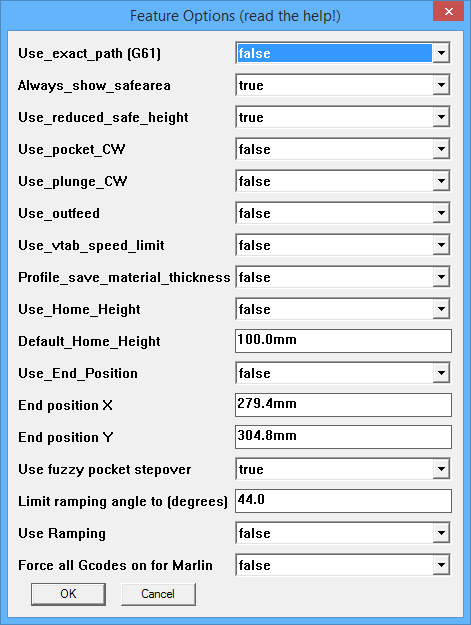
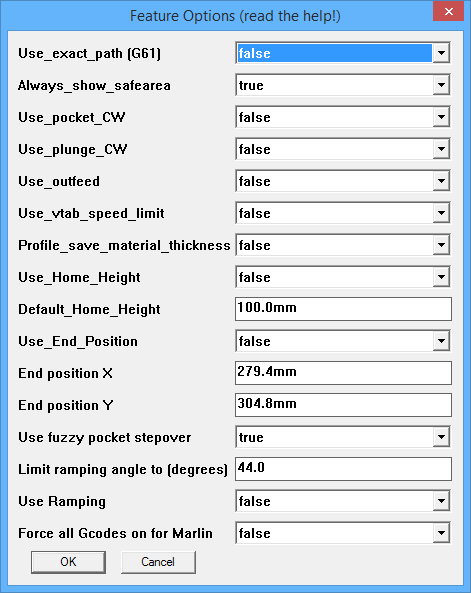
help updates, shifted use_reduced_safe_Height to hole options
use_reduced_safe_height belongs under hole features.
help updated

Changed region(s): [[0.0297, 0.0, 0.9809, 0.9713], [0.2675, 0.941, 0.4161, 0.9713]]

diff --git a/Plugins/Phlatboyz/html/help.html b/Plugins/Phlatboyz/html/help.html
@@ -113,7 +113,7 @@
 <br>
 <a href="http://www.phlatboyz.com/">PHLATBOYZ</a>
 
-<div class="intro-name">Phlatboyz SketchUcam(PhlatScripT)<div><b>SketchUcam Version 1.4</b><br>November 2015</div></div>
+<div class="intro-name">Phlatboyz SketchUcam(PhlatScripT)<div><b>SketchUcam Version 1.4a</b><br>February 2016</div></div>
 
 <br> <a href="http://www.phlatforum.com/xenforo/index.php?forums/sketchucam-download/">Check for Latest Version of SketchUcam</a>
 <hr width="100%">
@@ -176,11 +176,18 @@
             </ul>
             <b>HOWTO:</b><br>
             <ul style="padding-left: 2px;">
+               <li><a class="index" href="howto_options.html#compat">Set <b>Use_compatible_dialogs</b> when Parameters dialog is blank</a>
                <li><a class="index" href="howto_options.html">Change Default Options</a>
-               <li><a class="index" href="howto_options.html#compat">Set <b>Use_compatible_dialogs</b> when Parameters dialog blank</a>            
-               <li><a class="index" href="howto-changegplot.html">Change G-code plotter*</a>
-               <li><a class="index" href="howto_phlatbones.html">Use the <b>PhlatBones</b> tool</a>
-               <li><a class="index" href="howto_profileexchange.html">Exchange Profiles with friends</a>
+               <ul>
+                  <li><a href="howto_options.html#a1">Tool Options</a> 
+                  <li><a href="howto_options.html#a2">Misc Options</a> 
+                  <li><a href="howto_options.html#a3">Machine Options</a> 
+                  <li><a href="howto_options.html#a4">Feature Options</a> 
+                  <li><a href="howto_options.html#a5">Hole Feature Options</a>   
+                  <li><a href="howto_options.html#a6">File Options</a> 
+               </ul>
+               
+                           
                <li><a class="index" href="sketchucamtoolbar.html">Toolbar Icons</a>
                <ul>
                   <li><a href="sketchucamtoolbar.html#toolparameters"><img alt="" src="../images/parameterstool_small.png" title="Enter Phlatboyz Parameters" width="16"> Parameters</a>
@@ -201,7 +208,10 @@
                   <li><a href="sketchucamtoolbar.html#toolgoto"><img alt="" src="../images/Phlatboyz_homepage_small.png" title="Go To Phlatboyz Homepage" width="16"> Goto Phlatforum</a>
                   <li><a href="sketchucamtoolbar.html#toolhelp"><img alt="" src="../images/helptool_small.png" title="Open Phlatboyz Help" width="16"> Help</a>
                </ul>
-               <li><a class="index" href="quicktools.html">QuickTools Toolbar*</a>
+               <li><a class="index" href="howto-changegplot.html">Change G-code plotter</a>
+               <li><a class="index" href="howto_phlatbones.html">Use the <b>PhlatBones</b> tool</a>
+               <li><a class="index" href="howto_profileexchange.html">Exchange Profiles with friends</a>
+               <li><a class="index" href="quicktools.html">QuickTools Toolbar</a>
                <li><a class="index" href="edgemenu.html">Edge Context Menu</a>
                <li><a class="index" href="toolsmenu.html">Tools|PhlatBoyz Menu</a>
                <li><a class="index" href="howto_ramping.html"><b>How to use Ramping</b></a>
@@ -214,6 +224,34 @@
 <tbody>
 <tr>
    <td width="90%">
+   <div class="intro">
+      
+      <h4>New in V1.4a (Feb 2016)</h4>
+      <dl>   
+      <dt>Bug fixes
+         <dd>
+         <dl>
+         <dt>Additions to help.
+         </dl>
+         </dd>
+      <dt>New Features
+         <dd>
+         <dl>
+         <dt>Centerline cuts: prevent retract when possible
+            <dd>If doing multipass cuts, centerline cuts that form loops do not need to retract between passes since start and end  point are equal.
+            <dd>This applies to all cuts based on centerline cuts, centerline, fold, and pockets.
+         <dt>Fast approach:
+            <dd>Approach the surface using G00 to within 0.5mm, then switch to G01 to begin cutting.<br>
+            This reduces cut time greatly when the safe height is relatively high, and to a lesser extent for normal safe heights.
+            <dd>(This was already implemented for ramping cuts, and has now been added to non-ramping cuts).
+         <dt>Very small arcs converted to lines
+            <dd>Arc segments with radius <= 0.010" can cause problems with some simulators and controllers.   Convert them to line segments.
+            Note that drawing such a small arc is almost impossible in Sketchup, but they can result from scaling a drawing, or from importing
+            a scanned DXF file.
+         </dl>
+         </dd>
+      </dl>
+   </div>
    <div class="intro">
       
       <h4>New in V1.4 (Nov 2015)</h4>

diff --git a/Plugins/Phlatboyz/html/howto_options.html b/Plugins/Phlatboyz/html/howto_options.html
@@ -139,6 +139,7 @@ However, this proved to be complicated by changes in Windows 7 and 8, differing 
 Thus the new Options Menu is an evolution of this default options mechanism and allow a user to set default settings that affect
 their computer or CNC machine  environment using simple menus as shown at right.
 </p>
+<hr>
 <h2>The Options menu</h2>
 <p>
 The Options menu is found under Tools|PhlatBoyz|Options and comprises 5 items with subitems as follows:
@@ -158,7 +159,7 @@ The Options menu is found under Tools|PhlatBoyz|Options and comprises 5 items wi
    <dd>Default file naming options
 </dl>
 <br clear="all">
-
+<hr>
 <h2><a id="a1">Tool Options</a></h2>
 <p>   
 <img src="images/options-tool.png" style="float: right;">
@@ -197,7 +198,7 @@ These settings can easily be overridden by using the Tool Profiles save and load
       <dd>Set this to true to have pocket zigzags default to along Y axis, false for along X axis.
          This setting can be changed on the fly with the END key.
 </dl>
-
+<hr>
 <h2><a id="a2">Misc Options</a></h2>
 <p>
 <img src="images/options-misc.png" style="float: right;">
@@ -221,7 +222,7 @@ These settings can easily be overridden by using the Tool Profiles save and load
       Linux users running Sketchup under WINE can work around this issue by installing 'winetricks' and then issuing the command 'winetricks ie8'.  
       This will install IE8 and allow the Parameters dialog to work correctly with this setting set to false.
 </dl>   
-
+<hr>
 <h2><a id="a3">Machine Options</a></h2>
 <p>
 <img src="images/options-machine.png" style="float: right;">
@@ -286,7 +287,7 @@ cuts = 3.3</pre>
    <dt>Output Comments
       <dd>When this option is set to FALSE, no comments will be output to the G-code file at all.
 </dl>
-
+<hr>
 <h2><a id="a4">Feature Options</a></h2>
 <img src="images/options-feature.png" style="float: right;">
 <dl>
@@ -303,9 +304,6 @@ cuts = 3.3</pre>
    <dt>Always_show_safearea
       <dd>Set this to true, if you want the safe area to always show, when parameters are saved.<br>
          Otherwise the safe area will only show, if it's size has been changed.
-            
-   <dt>Use_reduced_safe_height
-      <dd>Set this to true to use 1/3 of the usual safe travel height during plunge boring moves.
             
    <dt>Use_pocket_CW
       <dd>Set this true to generate pocket outlines that cut in CW instead of usual CCW direction<br>
@@ -368,13 +366,15 @@ cuts = 3.3</pre>
       <dd>FALSE (default) = use optimized G-code output that does not repeat G commands if they are not needed
       <dd>TRUE = force output of G code on all lines, useful for Marlin firmware that requires this.
    </dl>
-
+<hr>
 <h2><a id="a5">Hole Feature Options</a></h2>
 <img src="images/options-holefeatures.png" style="float: right;">
    Some options that plunge hole feature Gcode generation.<br>
    Note that the Ramping and stepover% settings also affect how hole boring is generated.  <a href="sketchucamtoolbar.html#toolplunge">Read more here</a>
 <dl>
-<dt>Use fuzzy hole stepover 
+   <dt>Use_reduced_safe_height
+      <dd>Set this to true to use the minimum of 0.5mm or 1/3 of the usual safe travel height during plunge boring moves.
+   <dt>Use fuzzy hole stepover 
       <dd>FALSE = spiral hole boring will use the exact stepover percentage given in the parameters dialog.
          This may create a very small depth of cut for the last cut.
       <dd>TRUE = the stepover will be adjusted to give a whole number of steps of equal size.<br>
@@ -398,7 +398,7 @@ cuts = 3.3</pre>
       bore a large hole.   For harder materials with multipass this method is recommended.
 </dl>   
    
-   
+   <hr>
 <h2><a id="a6">File Options</a></h2>
 <img src="images/options-file.png" style="float: right;">
    Some options that affect saving G-code files.

diff --git a/notes.html b/notes.html
@@ -354,11 +354,26 @@ List of things to fix/add for next release, in no particular order
    <dt>fold/centerline/pocket tool depth
       <dd>can now be set to floating point number, eg 10.6 or 34.15 etc
    <dt>inputbox error checking
-      <dd> all input boxes use exception rescueing to detect errors in number formats and 'retry'
+      <dd> all input boxes use exception rescuing to detect errors in number formats and 'retry'
    <dt>removed SHIFT for inverting cut edge in outside/inside cut.
    <dt>rapid approach to surface for plunge moves, similar to ramping
 </dl>  
+<h2>1.4a</h2>
+<dl>
+   <Dt>help updated
+   <dt>move use_reduced_safe_height to the hole feature options menu where it belongs
+   <dt>Centerline cuts: prevent retract when possible
+      <dd>  If doing multipass cuts, centerline cuts that form loops do not need to retract between passes since start and end point are equal. 
+      <dd>  This applies to all cuts based on centerline cuts, centerline, fold, and pockets. 
+   <dt>Fast approach:
+      <dd>  Approach the surface using G00 to within 0.5mm, then switch to G01 to begin cutting.
+      <dd>  This reduces cut time greatly when the safe height is relatively high, and to a lesser extent for normal safe heights. 
+      <dd>  (This was already implemented for ramping cuts, and has now been added to non-ramping cuts). 
+   <dt> Very small arcs converted to lines
+      <dd>  Arc segments with radius <= 0.010" can cause problems with some simulators and controllers. Convert them to line segments. Note that drawing such a small arc is almost impossible in Sketchup, but they can result from scaling a drawing, or from importing a scanned DXF file. 
 
+
+</dl>
         
 <hr>
 $Id: notes.html 98 2014-02-14 13:53:20Z swarfer $

diff --git a/Plugins/Phlatboyz/html/quicktools.html b/Plugins/Phlatboyz/html/quicktools.html
@@ -169,7 +169,7 @@
    
    
    <tr>
-      <td class="command-image" valign=top>
+      <td class="command-image" valign=top id=toolchange>
       <img src="../images/toolchange_large.png">
       </td>
       <td class="command-description" valign=top>
@@ -180,7 +180,17 @@
          achieve the tool change for you.   The tool commands can include a '%s' string: this is where the tool offset is inserted.
          For example, for GRBL you can set the tool offset with this line:<br>
          <pre>G38.1 Z%s</pre>
+         
+         And example toolchange script might look like
+         <pre>(toolchange)
+G28      (go to predefined position)
+M0       (pause for tool change)
+G38.1 Z%s   (set the tool offset, %s will be replaced by the offset set for this tool)
+(toolchange end)
+</pre>
+         
          <br>Activate this toolbar by ticking the <i>View|Toolbars|SketchUcam Quick Tools</i> item.
+         <br>See also: <a href="sketchucamtoolbar.html#tooljoiner">Joining multiple Gcode files (one per tool!)</a>
       </td>
    </tr>
    

diff --git a/Plugins/Phlatboyz/html/sketchucamtoolbar.html b/Plugins/Phlatboyz/html/sketchucamtoolbar.html
@@ -252,6 +252,9 @@
          Yes, we know it is misnamed 'Validity Check', that is a Sketchup default we cannot change :-)
          Please see the <a href="howto_options.html">Options</a> help.
          </p>
+         <p>See also: <a href="quicktools.html#toolchange">Tool Change</a><br>
+         As of V1.4 you will prompted for tool information when you save a tool profile.  IF you enter tool information, this will automatically enable 
+         tool code output when you load the profile.
          <hr>
          
          <b>Some points to note:</b>         
@@ -780,6 +783,7 @@ stepover% <= 100%
          Make sure that they all use the same size tool!<br>
          <a href="toolsmenu.html">More information here</a>
          &nbsp; 
+         <br>See also: <a href="quicktools.html#toolchange">Tool Change</a>
       </td>
     </tr>
    

diff --git a/Plugins/Phlatboyz/html/setParamsWebDialog.html b/Plugins/Phlatboyz/html/setParamsWebDialog.html
@@ -117,7 +117,7 @@ td.tooltip:hover span{ display:inline; position:absolute; color:#111; border:1px
       </tr>
       <tr>
         <td id="overheadgantry_id" class="caption">&nbsp;</td>
-        <td class="tooltip"><input name="overheadgantry" id="overheadgantry" value=""  type="checkbox"><span>Sets direction of cuts</span></td>
+        <td class="tooltip"><input name="overheadgantry" id="overheadgantry" value=""  type="checkbox"><span>Sets direction of cuts,<br>ticked = outside cut is anticlockwise,<br>unticked = clockwise</span></td>
       </tr>
 
       <tr id="multipass_row1">

diff --git a/Plugins/Phlatboyz/tools/PhOptions.rb b/Plugins/Phlatboyz/tools/PhOptions.rb
@@ -60,7 +60,6 @@ module PhlatScript
          @use_vtab_speed_limit   =   (phoptions.use_vtab_speed_limit? ? '1' : '0')
          @use_exact_path         =   (phoptions.use_exact_path? ? '1' : '0')
          @always_show_safearea   =   (phoptions.always_show_safearea? ? '1' : '0')
-         @use_reduced_safe_height =  (phoptions.use_reduced_safe_height? ? '1' : '0')
          @use_pocket_cw          =   (phoptions.use_pocket_cw? ? '1' : '0')
          @use_plunge_cw          =   (phoptions.use_plunge_cw? ? '1' : '0')
          @use_outfeed            =   (phoptions.use_outfeed? ? '1' : '0')
@@ -75,6 +74,7 @@ module PhlatScript
          @must_ramp              =   (phoptions.must_ramp? ? '1' : '0')
          @gforce                 =   (phoptions.gforce? ? '1' : '0')
       #featuresforholes
+         @use_reduced_safe_height =  (phoptions.use_reduced_safe_height? ? '1' : '0')
          @use_fuzzy_holes        =   (phoptions.use_fuzzy_holes? ? '1' : '0')
          @quarter_arcs           =   (phoptions.quarter_arcs? ? '1' : '0')
          @quick_peck             =   (phoptions.quick_peck? ? '1' : '0')
@@ -1129,7 +1129,6 @@ end # class
          prompts=[
             'Use_exact_path (G61) ',
             'Always_show_safearea ',
-            'Use_reduced_safe_height ',
             'Use_pocket_CW ',
             'Use_plunge_CW ',
             'Use_outfeed ',
@@ -1148,7 +1147,6 @@ end # class
          defaults=[
             @options.use_exact_path?.inspect(),
             @options.always_show_safearea?.inspect(),
-            @options.use_reduced_safe_height?.inspect(),
             @options.use_pocket_cw?.inspect(),
             @options.use_plunge_cw?.inspect(),
             @options.use_outfeed?.inspect(),
@@ -1165,7 +1163,6 @@ end # class
             @options.gforce?.inspect(),
             ];
          list=[
-            'true|false',
             'true|false',
             'true|false',
             'true|false',
@@ -1192,27 +1189,26 @@ end # class
          if (input)
             @options.use_exact_path          = (input[0] == 'true')
             @options.always_show_safearea    = (input[1] == 'true')
-            @options.use_reduced_safe_height = (input[2] == 'true')
-            @options.use_pocket_cw           = (input[3] == 'true')
-            @options.use_plunge_cw           = (input[4] == 'true')
-            @options.use_outfeed             = (input[5] == 'true')
-            @options.use_vtab_speed_limit    = (input[6] == 'true')
-            @options.profile_save_material_thickness         = (input[7] == 'true')
-            @options.use_home_height         = (input[8] == 'true')
-            @options.default_home_height     = input[9] # length
+            @options.use_pocket_cw           = (input[2] == 'true')
+            @options.use_plunge_cw           = (input[3] == 'true')
+            @options.use_outfeed             = (input[4] == 'true')
+            @options.use_vtab_speed_limit    = (input[5] == 'true')
+            @options.profile_save_material_thickness         = (input[6] == 'true')
+            @options.use_home_height         = (input[7] == 'true')
+            @options.default_home_height     = input[8] # length
 
-            @options.use_end_position        = (input[10] == 'true')
+            @options.use_end_position        = (input[9] == 'true')
             if (@options.use_outfeed?)     # only one of them
                @options.use_end_position = false
             end
-            @options.end_x                   = input[11] #length
-            @options.end_y                   = input[12] #length
+            @options.end_x                   = input[10] #length
+            @options.end_y                   = input[11] #length
 
-            @options.use_fuzzy_pockets       = (input[13] == 'true')
+            @options.use_fuzzy_pockets       = (input[12] == 'true')
 
-            @options.ramp_angle              = input[14]  #float
-            @options.must_ramp               = (input[15] == 'true')
-            @options.gforce                  = (input[16] == 'true')
+            @options.ramp_angle              = input[13]  #float
+            @options.must_ramp               = (input[14] == 'true')
+            @options.gforce                  = (input[15] == 'true')
             #puts "saving must_ramp = #{@options.must_ramp?}"
             
             @options.save
@@ -1237,12 +1233,14 @@ end # class
 
          # prompts
          prompts=[
+            'Use_reduced_safe_height ',
             'Use fuzzy hole stepover ',
             'Output helixes as quarter arcs ',
             'Use QuickPeck drill cycle ',
             'Use Depth first(true) or Diam first(false) '
             ];
          defaults=[
+            @options.use_reduced_safe_height?.inspect(),
             @options.use_fuzzy_holes?.inspect(),
             @options.quarter_arcs?.inspect(),
             @options.quick_peck?.inspect(),
@@ -1252,16 +1250,18 @@ end # class
             'true|false',
             'true|false',
             'true|false',
+            'true|false',
             'true|false'
             ];
 
          input=UI.inputbox(prompts, defaults, list, 'Hole Feature Options (read the help!)')
          # input is nil if user cancelled
          if (input)
-            @options.use_fuzzy_holes         = (input[0] == 'true')
-            @options.quarter_arcs            = (input[1] == 'true')
-            @options.quick_peck              = (input[2] == 'true')
-            @options.depth_first             = (input[3] == 'true')
+            @options.use_reduced_safe_height = (input[0] == 'true')
+            @options.use_fuzzy_holes         = (input[1] == 'true')
+            @options.quarter_arcs            = (input[2] == 'true')
+            @options.quick_peck              = (input[3] == 'true')
+            @options.depth_first             = (input[4] == 'true')
             
             @options.save
          end # if input

diff --git a/Plugins/Phlatboyz/PhlatMill.rb b/Plugins/Phlatboyz/PhlatMill.rb
@@ -1507,7 +1507,7 @@ module PhlatScript
          end
          if (!@canneddrill) || (PhlatScript.mustramp?) 
             puts "pbd  reduced safe height #{sh.to_mm}\n"                     if @debug
-            command_out += "G00" + format_measure("Z", sh)    # fast feed down to 1/3 safe height
+            command_out += "G00" + format_measure("Z", sh)    # fast feed down to safe height
             command_out += "\n"
          end
       else
